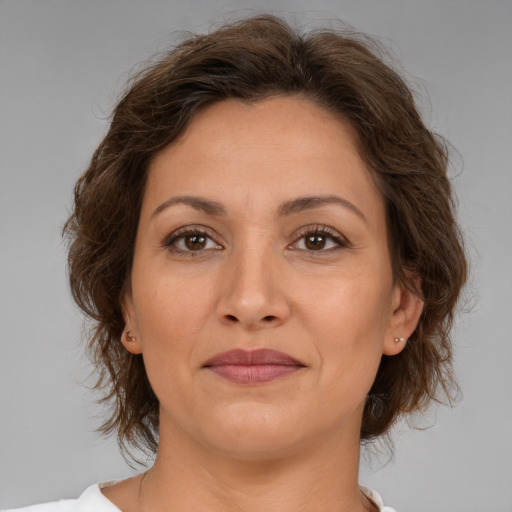
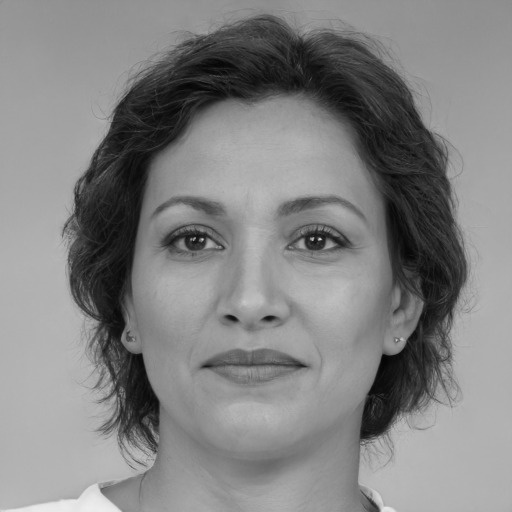
made grayscale

diff --git a/convert_to_grayscale.py b/convert_to_grayscale.py
@@ -1,0 +1,35 @@
+import cv2
+import os
+from pathlib import Path
+
+script_dir = os.path.dirname(os.path.abspath(__file__))
+bilder_dir = os.path.join(script_dir, "Bilder")
+
+# Supported image extensions
+image_extensions = {'.jpg', '.jpeg', '.png', '.bmp', '.tiff', '.tif'}
+
+# Get all image files in the Bilder directory
+image_files = [f for f in os.listdir(bilder_dir)
+               if Path(f).suffix.lower() in image_extensions]
+
+print(f"Found {len(image_files)} images to convert...")
+
+for filename in image_files:
+    img_path = os.path.join(bilder_dir, filename)
+
+    # Read image in color
+    img = cv2.imread(img_path)
+
+    if img is None:
+        print(f"Could not read: {filename}")
+        continue
+
+    # Convert to grayscale
+    gray_img = cv2.cvtColor(img, cv2.COLOR_BGR2GRAY)
+
+    # Save back to the same path (replaces original)
+    cv2.imwrite(img_path, gray_img)
+    print(f"Converted: {filename}")
+
+print("Conversion complete!")
+

diff --git a/app.py b/app.py
@@ -2,7 +2,7 @@ import numpy as np
 import cv2
 import os
 
-face_databank = np.zeros((30, 256, 256), dtype=np.uint8)
+face_databank = np.zeros((30, 512, 512), dtype=np.uint8)
 
 script_dir = os.path.dirname(os.path.abspath(__file__))
 bilder_dir = os.path.join(script_dir, "Bilder")
@@ -15,6 +15,6 @@ for i in range(30):
         print(f"Konnte die Bilder nicht laden: {img_path}")
         continue
 
-    img = cv2.resize(img, (256, 256))
+    img = cv2.resize(img, (512, 512))
     face_databank[i] = img
 
